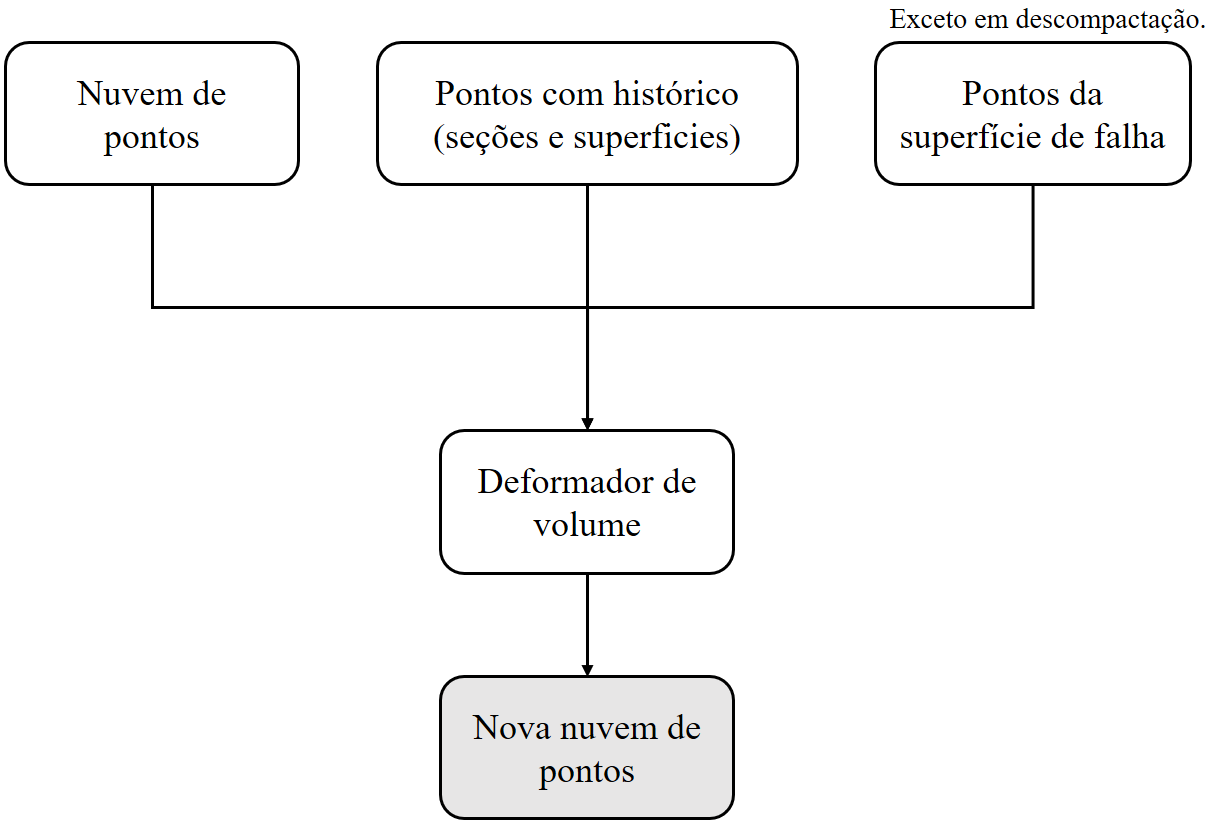
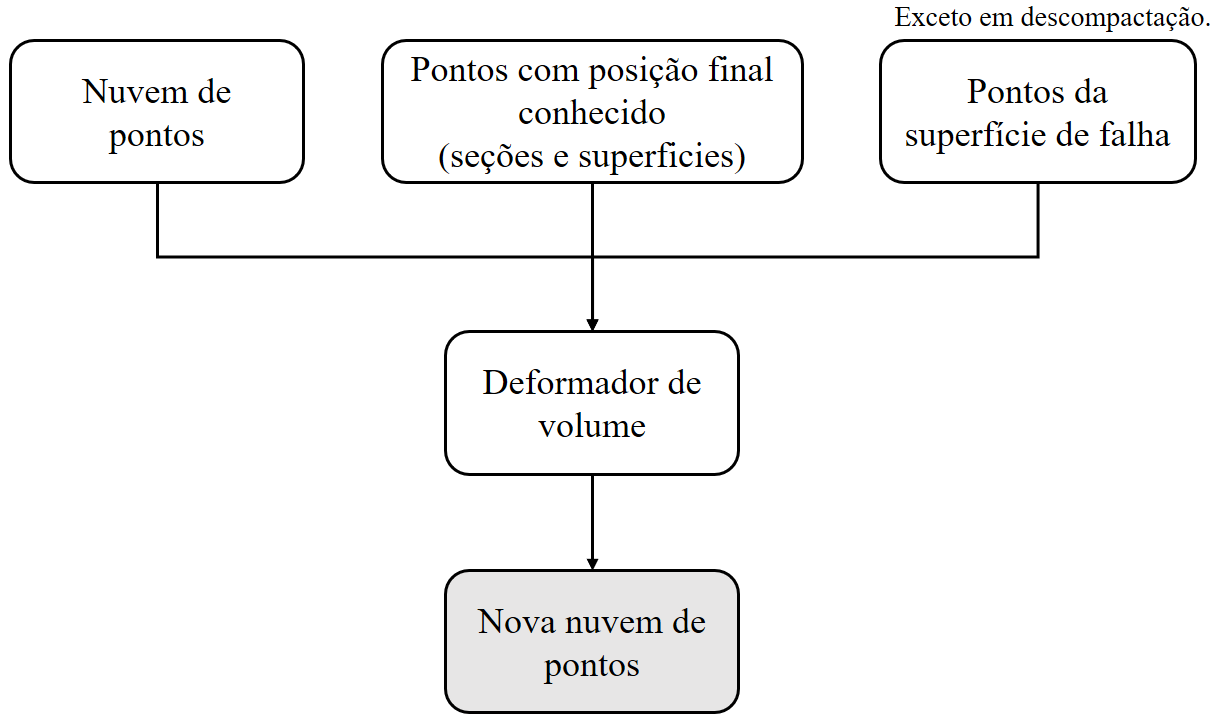
finish volume example

Changed region(s): [[0.0, 0.0, 1.0, 1.0], [0.3358, 0.547, 0.3663, 0.6381], [0.7021, 0.0608, 0.7327, 0.0912]]

diff --git a/chapter-map-vol.tex b/chapter-map-vol.tex
@@ -6,7 +6,7 @@ O mapeamento do volume geológico é feito com o uso uma nuvem de pontos contida
 
 Nesta seção serão apresentados a metodologia por trás do mapeamento do volume e o sua aplicação dentro do Sistema Recon, bem como detalhes sobre os requisitos para utilização do método.
 
-\subsection{Metodologia}
+\subsection{Metodologia}\label{vol-metodology}
 
 Nas últimas décadas vários métodos numéricos vêm sendo desenvolvidos para simulação de problemas físicos em modelos tridimensionais, dentre os quais destacam-se alguns, divididos em dois grupos e listados a seguir:
 
@@ -212,10 +212,72 @@ O último dado depende do tipo de marco geológico ocorrido entre as \emph{Etapa
   \end{center}
 \end{figure}
 
-O resultado é uma nuvem de pontos atualizada que será usada no próximo passo do mapeamento e assim ter um volume coerente com o ocorrido nas seções e superfícies.
+O resultado é uma nuvem de pontos atualizada que será usada no próximo passo do mapeamento e assim ter um volume coerente com o a movimentação tectônica das seções e superfícies.
 
 \subsection{Exemplos e resultados}
 
+Neste item será mostrado um exemplo de mapeamento do volume feito no mesmo modelo usado no mapeamento de superfície já apresentado no item~\ref{ex-2-surf}.
 
+Para este exemplo foi adotado uma subdivisão para geração da grade volumétrica de $70$ unidades em $x$, $70$ unidades em $y$ e $60$ em $z$. Um total de $1.518.053$ pontos foram criados no domínio do modelo geológico\footnote{Ao realizar uma verificação simples, foram definidas $70\times70\times60=294.000$ células, cada uma contendo $8$ pontos, logo, aproximadamente $35\%$ dos pontos foram descartados por estarem fora do domínio do modelo.}. A Figura~\ref{fig-vol-ex-1} a seguir exibe o modelo geológico com apenas as superfícies de horizonte à esquerda e a nuvem de pontos gerada à direita.
 
+\begin{figure} [H]
+  \begin{center}
+    \includegraphics[width=\textwidth]{images/fig-vol-ex-1}
+    \caption{Superfícies do modelo geológico e nuvem de pontos gerada.}\label{fig-vol-ex-1}
+  \end{center}
+\end{figure}
+
+Perceba pela imagem da direita que há pontos no topo marcados como sendo da camada geológica de baixo, isso acontece pela presença de buracos na superfície do topo, problema já discutido na Figura~\ref{fig-vol-errors}.
+
+Neste modelo já estão feitas todas as restaurações de seções e também o mapeamento de superfície (como apresentado no item~\ref{ex-2-surf}). A primeira \emph{EtapaMS} restaura a falha 7 do modelo. Essa falha intercepta apenas 6 seções geológicas (Figura~\ref{fig-example-2-5}), logo apenas estas seções irão contribuir com pontos, cujos deslocamentos são maiores que zero, para a movimentação do volume. 
+
+De acordo com o apresentado anteriormente, os pontos das seções e das superfícies são unidos numa estrutura de dados onde cada ponto possui um atributo guardando sua posição final na \emph{EtapaMS} seguinte. A Figura~\ref{fig-vol-ex-2} mostra os pontos dessa estrutura para esse primeiro passo, evidenciando apenas aqueles próximo das seções cruzadas pela falha 7, além dos pontos da própria superfície de falha 7.
+
+Conforme metodologia apresentada (item~\ref{vol-metodology}), a movimentação conhecida dos pontos de seção e superfície é a responsável por fazer a movimentação dos pontos do volume. Para esta \emph{EtapaMS} é apresentada na Figura~\ref{fig-vol-ex-3} a nova nuvem de pontos com a execução do deformador de volume.
+
+\begin{figure} [H]
+  \begin{center}
+    \includegraphics[width=\textwidth]{images/fig-vol-ex-2}
+    \caption{Pontos com informação de movimentação da primeira etapa do mapeamento do volume: (a) e (c) antes do movimento, (b) e (d) após o movimento.}\label{fig-vol-ex-2}
+  \end{center}
+\end{figure}
+
+\begin{figure} [H]
+  \begin{center}
+    \includegraphics[width=\textwidth]{images/fig-vol-ex-3}
+    \caption{Movimentação da nuvem de pontos devido à primeira \emph{EtapaMS} de restauração do modelo.}\label{fig-vol-ex-3}
+  \end{center}
+\end{figure}
+
+Diferente do mapeamento de superfícies, aqui no volume não há necessidade de uma interação, só é preciso que os requisitos estejam prontos (seções e superfícies). Nas Figuras a seguir são mostrados o mapeamento do volume para cada \emph{EtapaMS} subsequente até que se tenha a camada do topo restaurada.
+
+\begin{figure} [H]
+  \begin{center}
+    \includegraphics[width=\textwidth]{images/fig-vol-ex-4}
+    \caption{Movimentação da nuvem de pontos devido à \emph{EtapaMS} que restaura a falha 6.}\label{fig-vol-ex-4}
+  \end{center}
+\end{figure}
+
+\begin{figure} [H]
+  \begin{center}
+    \includegraphics[width=\textwidth]{images/fig-vol-ex-5}
+    \caption{Movimentação da nuvem de pontos devido à \emph{EtapaMS} que restaura a falha 5.}\label{fig-vol-ex-5}
+  \end{center}
+\end{figure}
+
+\begin{figure} [H]
+  \begin{center}
+    \includegraphics[width=\textwidth]{images/fig-vol-ex-6}
+    \caption{Movimentação da nuvem de pontos devido à \emph{EtapaMS} que restaura a falha 4.}\label{fig-vol-ex-6}
+  \end{center}
+\end{figure}
+
+\begin{figure} [H]
+  \begin{center}
+    \includegraphics[width=350pt]{images/fig-vol-ex-7}
+    \caption{Movimentação da nuvem de pontos devido à \emph{EtapaMS} de descompactação da camada do topo.}\label{fig-vol-ex-7}
+  \end{center}
+\end{figure}
+
+Quando há uma \emph{EtapaMS} de descompactação, os pontos de seções e superfícies continuam sendo guia de movimentação porém, os pontos da camada do topo são removidas da nuvem de pontos e assim manter o volume do modelo atualizado segundo o estado corrente da restauração. A Figura~\ref{fig-vol-ex-7} mostra o antes e depois da descompactação neste modelo usado como exemplo.
 

diff --git a/chapter-map-surf.tex b/chapter-map-surf.tex
@@ -1,7 +1,5 @@
 % -*- coding: utf-8; -*-
 
-\chapter{Mapeamento}
-
 \section{Mapeamento de superfícies}
 
 \subsection{Metodologia}\label{surface-mapping-metodology}
@@ -305,7 +303,7 @@ Como já apresentado na Figura~\ref{fig-select-borders-1}, este é um modelo pro
 
 \begin{figure} [H]
   \begin{center}
-    \includegraphics[width=400pt]{images/fig-example-1-1}
+    \includegraphics[width=\textwidth]{images/fig-example-1-1}
     \caption{Vista tridimensional das (a) seções e (b) superfícies do modelo simplificado.}\label{fig-example-1-1}
   \end{center}
 \end{figure}
@@ -348,7 +346,7 @@ Na etapa seguinte, calculam-se as direções dos pontos de borda e também a def
 
 O deformador de superfícies é chamado uma vez para cada superfície do modelo, no entanto, apenas a superfície do topo possui um conjunto de pontos de controle na borda próxima à falha que está sendo restaurada, ficando assim, as superfícies mais velhas sendo deformadas apenas com base na restauração das seções através das \textit{LMModels}.
 
-\subsubsection{Exemplo: modelo geológico da bacia de Camamu}
+\subsubsection{Exemplo: modelo geológico da bacia de Camamu}\label{ex-2-surf}
 
 Este segundo exemplo utiliza um modelo geológico adaptado extraído de um trecho da bacia de Camamu\cite{Camamu}, com dois horizontes e sete falhas com suas respectivas superfícies. No modelo foram criadas e restauradas 16 seções e conta ao todo com 14 \textit{EtapasMS}. A Figura~\ref{fig-example-2-1} mostra o modelo geológico numa vista tridimensional de cima (a) com a superfície do horizonte mais recente e (b) da superfície do horizonte mais antigo além da identificação das falhas.
 

diff --git a/tiny.tex b/tiny.tex
@@ -34,6 +34,8 @@
   \usepackage{amssymb}
   \usepackage{textcomp}
 % \usepackage{etoolbox}
+  \usepackage{eqparbox}
+  \usepackage{xparse}
   \usepackage{float}
   \usepackage[bottom]{footmisc}
 
